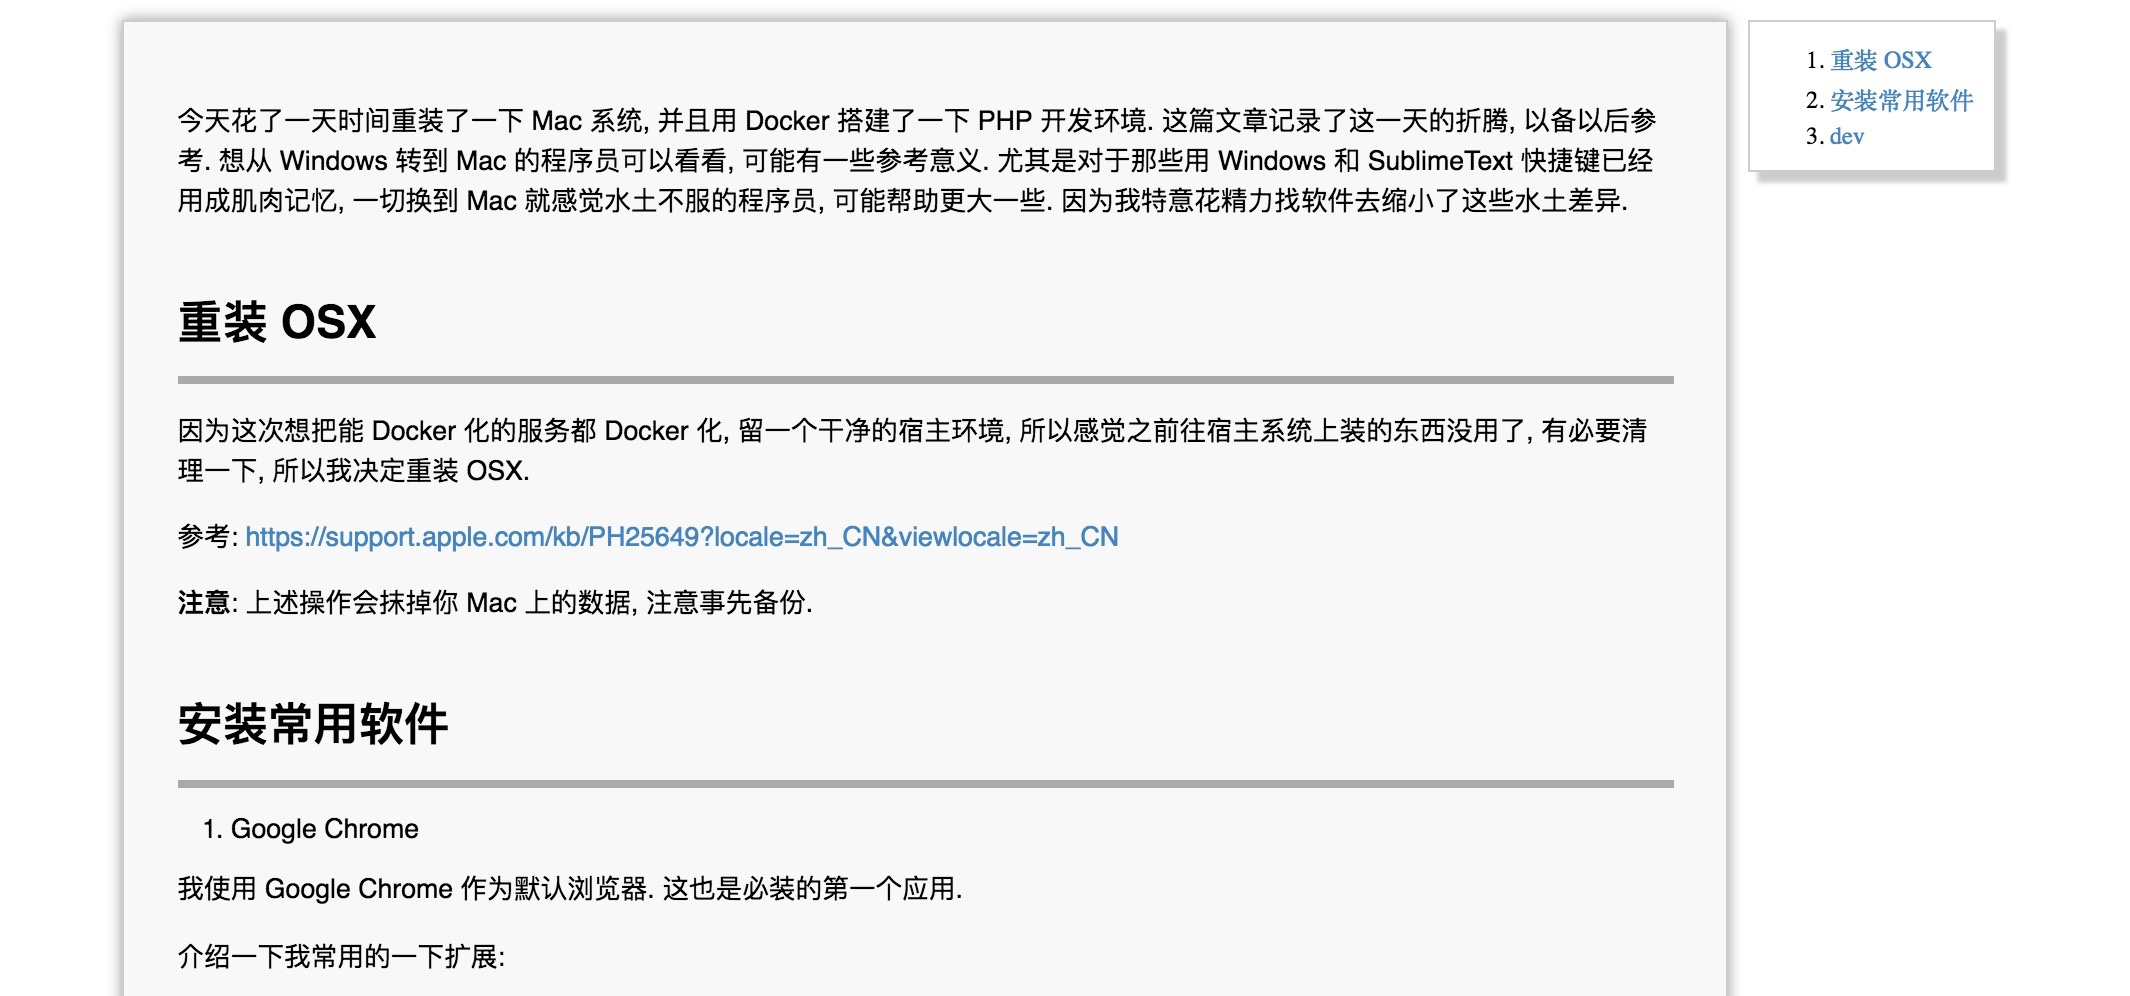
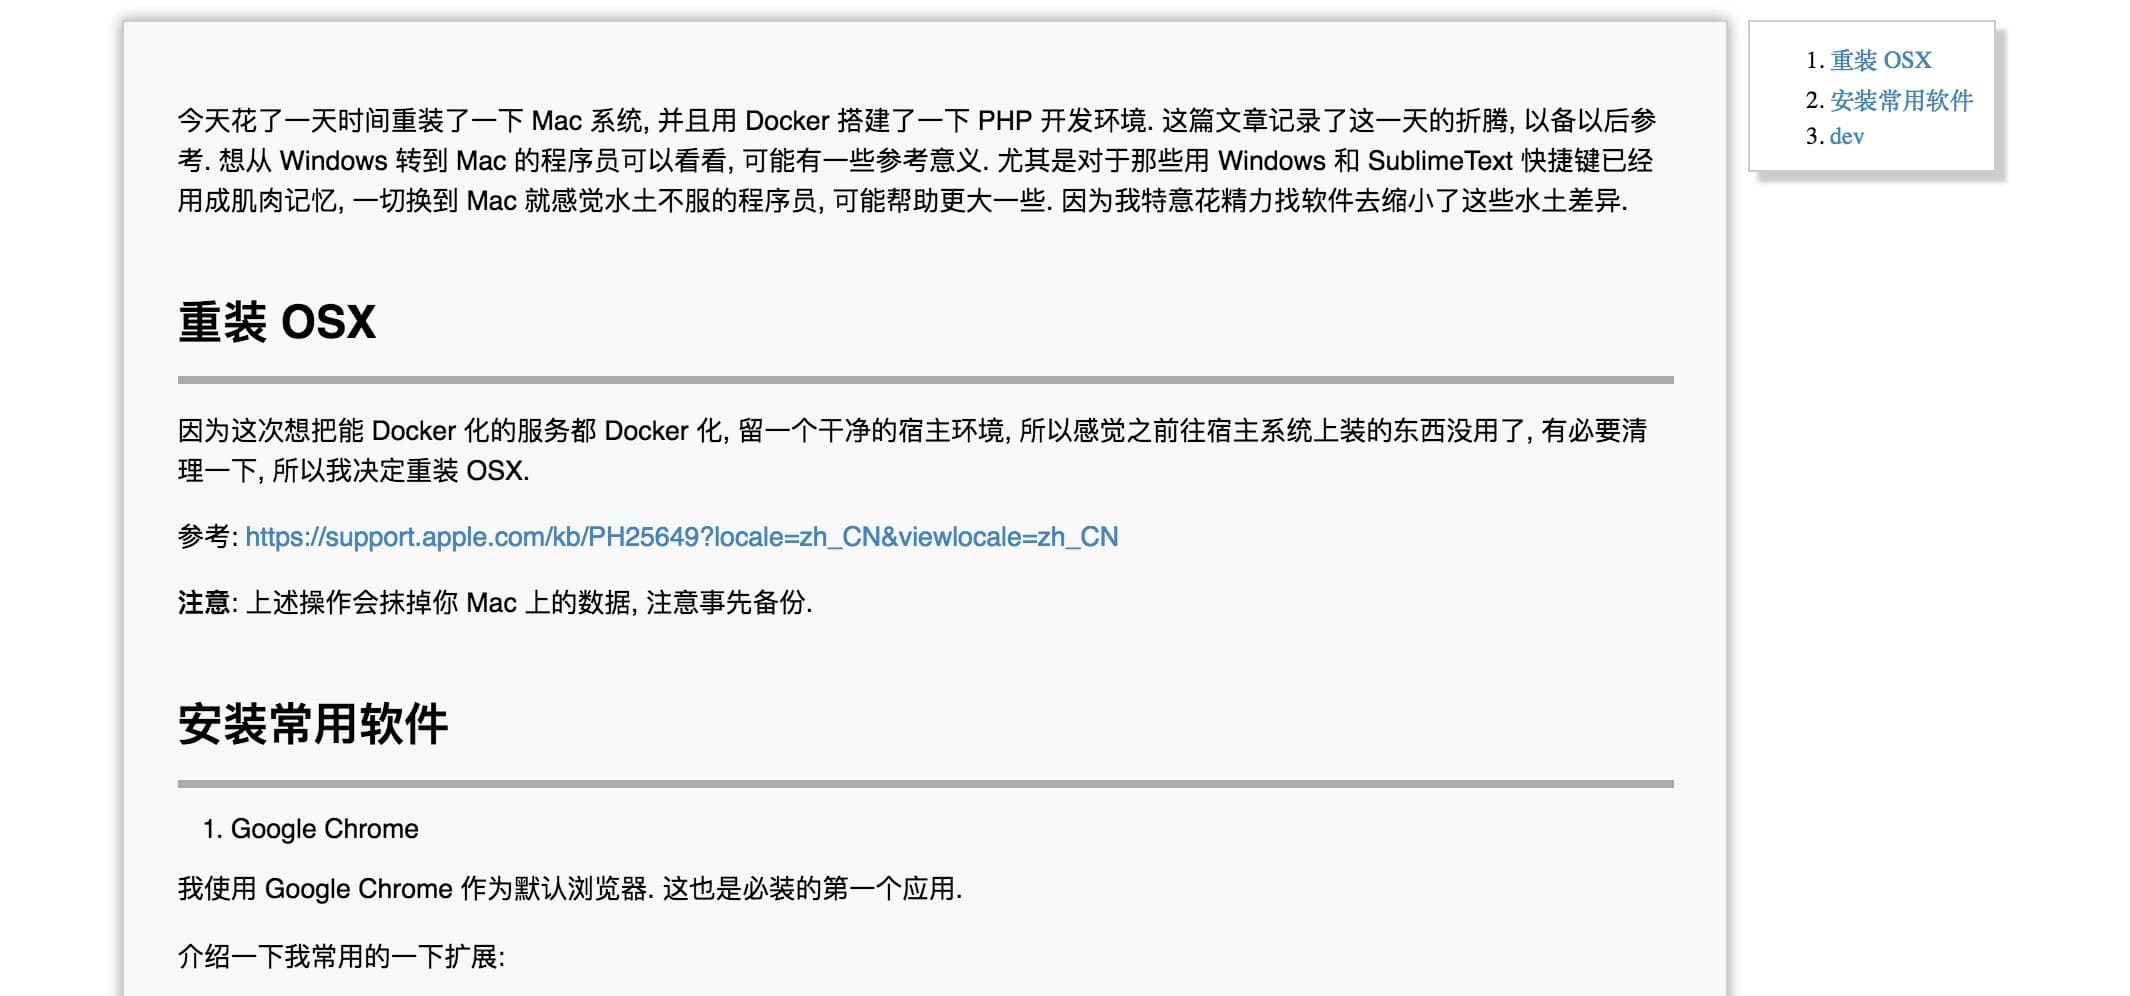
update

Changed region(s): [[0.2479, 0.1867, 0.2789, 0.2179]]

diff --git a/_posts/2018-06-18-mac-up.md b/_posts/2018-06-18-mac-up.md
@@ -90,7 +90,7 @@ Mac 不支持写外置的 ntfs 格式的硬盘, 如果你经常在 Windows 和 M
 - __shadow socks__: 接个人 vpn 用的.
 - __迅雷__: 老实说我很反感迅雷, 但是也是在找不到像样且免费的下载客户端. 暂且用着吧.
 - __qq__, __微信__: 这个不用说了. 
-- __xchat__: irc 聊天用. 见 http://unifreak.github.io/tutorial/IRC-quick-start
+- __xchat__: irc 聊天用. 见 <http://unifreak.github.io/tutorial/IRC-quick-start>
 
 # 安装开发软件
 
@@ -104,7 +104,7 @@ Mac 不支持写外置的 ntfs 格式的硬盘, 如果你经常在 Windows 和 M
 
 装完 sublime text 3, 第一件事就是装扩展. 而装扩展的第一件事, 就是装 packageControl:
 
-- __PackageControl__:
+- __PackageControl__
     1. 按 `ctrl` + `~`, 打开控制台
     2. 输入下面内容, 并回车
 
@@ -112,9 +112,9 @@ Mac 不支持写外置的 ntfs 格式的硬盘, 如果你经常在 Windows 和 M
         import urllib.request,os,hashlib; h = '6f4c264a24d933ce70df5dedcf1dcaee' + 'ebe013ee18cced0ef93d5f746d80ef60'; pf = 'Package Control.sublime-package'; ipp = sublime.installed_packages_path(); urllib.request.install_opener( urllib.request.build_opener( urllib.request.ProxyHandler()) ); by = urllib.request.urlopen( 'http://packagecontrol.io/' + pf.replace(' ', '%20')).read(); dh = hashlib.sha256(by).hexdigest(); print('Error validating download (got %s instead of %s), please try manual install' % (dh, h)) if dh != h else open(os.path.join( ipp, pf), 'wb' ).write(by)
         ```
 
-- __DirectOpen__: 
+- __DirectOpen__
 
-自己写的插件, 用于快速打开常用但难找的的文件. 比如隐藏很深的 `host` 文件, `php.ini` 配置文件等
+    自己写的插件, 用于快速打开常用但难找的的文件. 比如隐藏很深的 `host` 文件, `php.ini` 配置文件等
 
 - __CTags__
 
